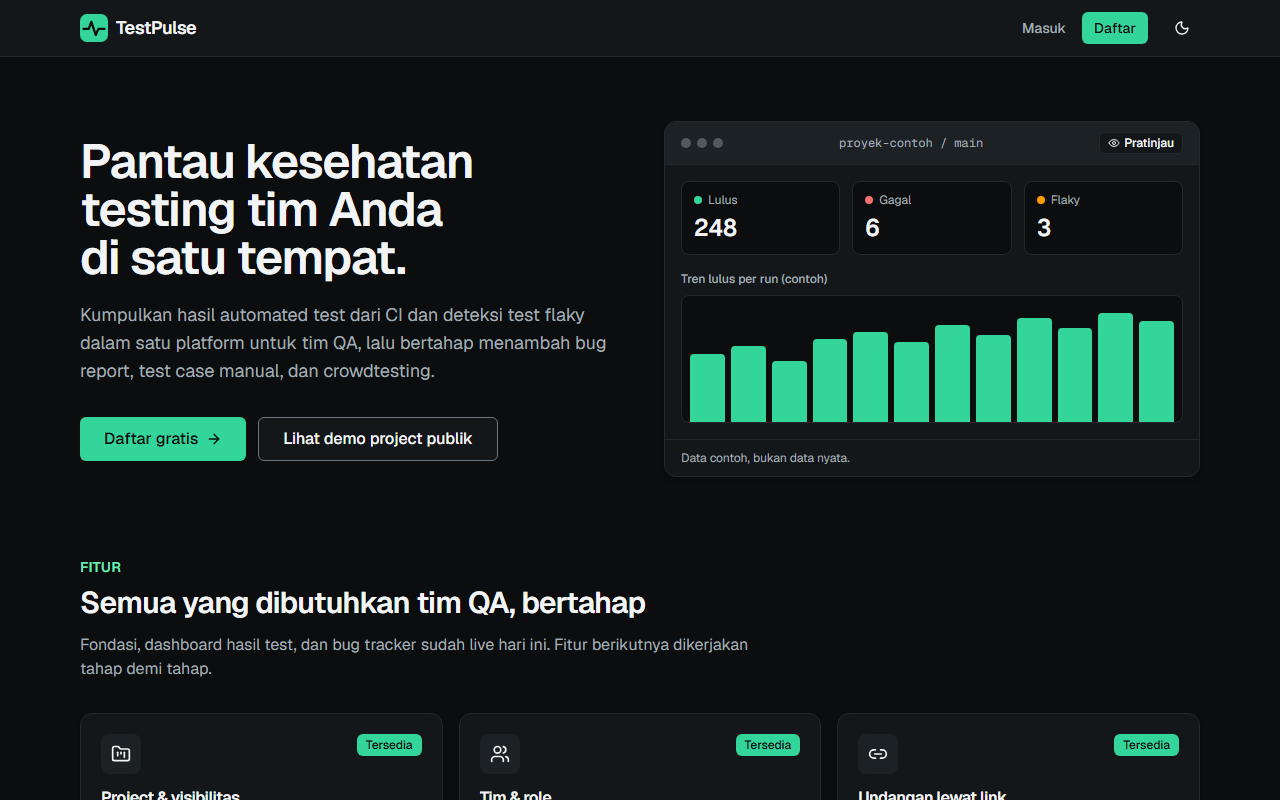
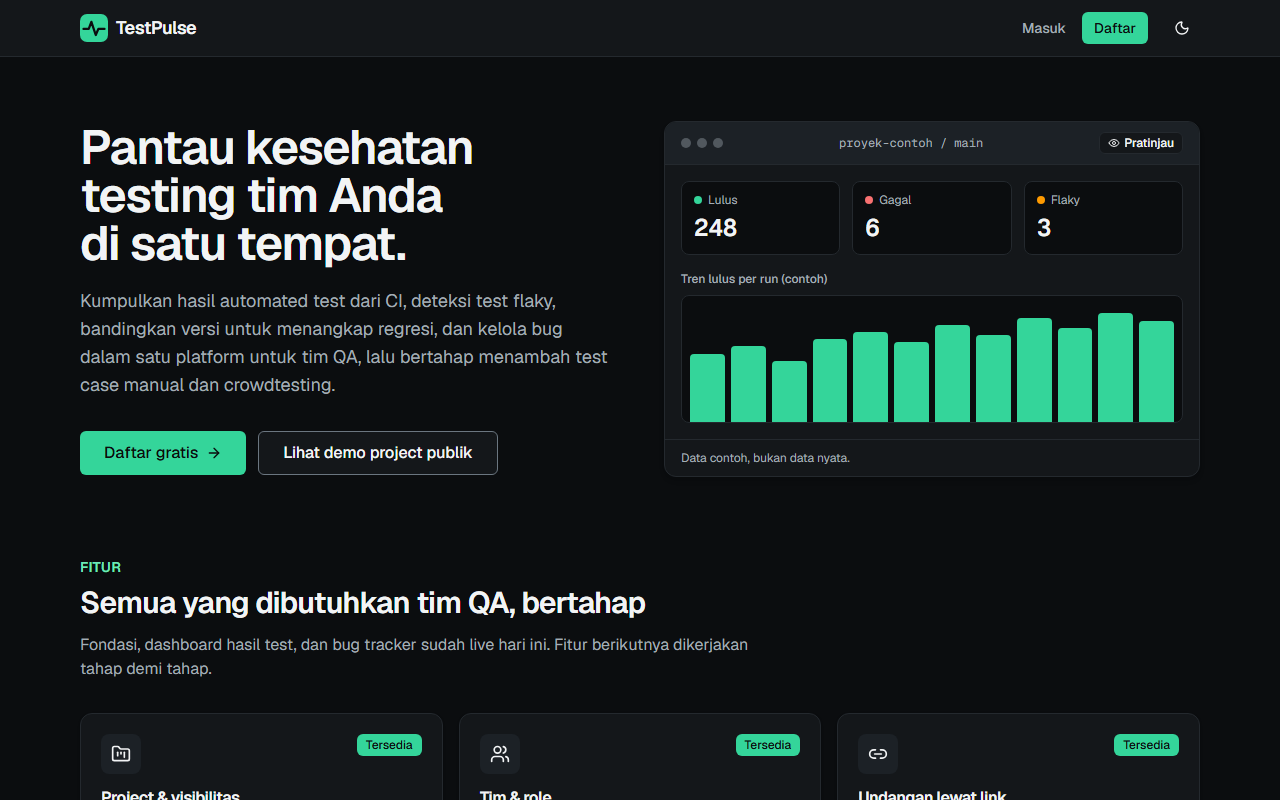
docs: refresh landing hero and Tahap 3 documentation details

Changed region(s): [[0.0625, 0.1562, 0.4688, 0.5938]]

diff --git a/apps/web/src/pages/landing/Hero.tsx b/apps/web/src/pages/landing/Hero.tsx
@@ -92,8 +92,8 @@ export function Hero() {
           Pantau kesehatan testing tim Anda di satu tempat.
         </h1>
         <p className="mt-5 max-w-xl text-lg text-muted-foreground">
-          Kumpulkan hasil automated test dari CI dan deteksi test flaky dalam satu platform untuk tim QA, lalu
-          bertahap menambah bug report, test case manual, dan crowdtesting.
+          Kumpulkan hasil automated test dari CI, deteksi test flaky, bandingkan versi untuk menangkap regresi, dan
+          kelola bug dalam satu platform untuk tim QA, lalu bertahap menambah test case manual dan crowdtesting.
         </p>
         <div className="mt-8 flex flex-col gap-3 sm:flex-row">
           <Button asChild size="lg">

diff --git a/README.md b/README.md
@@ -61,7 +61,7 @@ curl -X POST "https://testpulse-d2p.pages.dev/api/v1/projects/<slug>/runs" \
 # 201 {"runId":"...","url":"https://.../p/<slug>/runs/<runId>","totals":{"total":..,"passed":..,"failed":..,"skipped":..,"flaky":..}}
 ```
 
-`branch` wajib (1 sampai 200 karakter `A-Za-z0-9._/-`); `commit` (hex 7 sampai 40), `ciUrl` (http/https), `name`, dan `version` (versi aplikasi yang diuji, 1 sampai 50 karakter `A-Za-z0-9._+-`; Tahap 3) opsional. Nilai query harus di-URL-encode (`ciUrl` sendiri memuat `:`, `/`, dan sering `?`/`&`; `name` bisa berspasi): `--url-query` (curl 7.87 ke atas) melakukannya otomatis; pada curl yang lebih lama, encode sendiri, mis. `ciUrl=https%3A%2F%2Fci.example.com%2Frun%2F42`. Batas: body 5 MB, 20.000 testcase per laporan, 60 unggahan per jam per token, dan 200 run terbaru per project disimpan. Hanya token Bearer yang diterima di endpoint ini (cookie sesi tidak), dan laporan dengan `<!DOCTYPE` ditolak.
+`branch` wajib (1 sampai 200 karakter `A-Za-z0-9._/-`); `commit` (hex 7 sampai 40), `ciUrl` (http/https), `name`, dan `version` (versi aplikasi yang diuji, 1 sampai 50 karakter `A-Za-z0-9._+-`; Tahap 3) opsional. Nilai query harus di-URL-encode (`ciUrl` sendiri memuat `:`, `/`, dan sering `?`/`&`; `name` bisa berspasi; `+` pada `version`, mis. `1.0.0+build.5`, menjadi `%2B`, kalau tidak server membacanya sebagai spasi dan menolaknya): `--url-query` (curl 7.87 ke atas) melakukannya otomatis; pada curl yang lebih lama, encode sendiri, mis. `ciUrl=https%3A%2F%2Fci.example.com%2Frun%2F42`. Batas: body 5 MB, 20.000 testcase per laporan, 60 unggahan per jam per token, dan 200 run terbaru per project disimpan. Hanya token Bearer yang diterima di endpoint ini (cookie sesi tidak), dan laporan dengan `<!DOCTYPE` ditolak.
 
 ### Mengunggah dengan reporter CLI
 
@@ -125,7 +125,7 @@ Di PowerShell: `$env:TESTPULSE_TOKEN = Read-Host "Token CI"`, lalu jalankan `nod
 |---|---|---|
 | **1** | Fondasi: akun, project, tim dan role, undangan, seluruh pipeline QA | ✅ Selesai dan live (status CI: lihat badge di atas) |
 | **2** | Dashboard hasil test, deteksi flaky, reporter CLI, token CI, dogfooding, test performa (k6) | ✅ Selesai dan live (dashboard production terisi setelah `TESTPULSE_TOKEN` dipasang) |
-| **3** | Bug tracker (bug dari test yang gagal), deteksi regresi antar versi, visual regression, k6 untuk bug dan perbandingan | ✅ Selesai dan live (`/p/testpulse` menampilkan run berversi `0.3.0`) |
+| **3** | Bug tracker (bug dari test yang gagal), deteksi regresi antar versi, visual regression, k6 untuk bug dan perbandingan | ✅ Selesai; setelah deploy, `/p/testpulse` menampilkan run berversi `0.3.0` |
 | 4 | Test case management dan test run manual, mutation testing | Direncanakan |
 | 5 | Crowdtesting: test cycle publik, crowd tester mengirim bug, triase, reputasi dan leaderboard (aplikasi berupa link, tanpa pembayaran) | Direncanakan |
 | 6 (opsional) | Aplikasi desktop Electron (notifikasi build gagal, tray) yang diuji dengan Playwright | Opsional |

diff --git a/docs/test-plans/tahap-3.md b/docs/test-plans/tahap-3.md
@@ -146,7 +146,7 @@ Semua halaman di bawah lolos `expectNoA11yViolationsInBothThemes` (0 pelanggaran
 |---|---|---|---|---|
 | VIS-01 | Landing, dashboard, perbandingan, daftar bug, detail bug; tema terang dan gelap; 1280 x 800 dan 375 x 812; daftar dan detail bug juga sebagai tester | 76 screenshot (halaman penuh dan elemen kunci) cocok dengan baseline dengan toleransi ketat (50 piksel halaman, 10 piksel elemen) | V | [pages.spec.ts](../../tests/visual/pages.spec.ts), [seed.ts](../../tests/visual/seed.ts), [timestamps.ts](../../tests/visual/timestamps.ts) |
 | VIS-02 | Render deterministik dan sebanding antar mesin | Container Playwright resmi yang sepaket dengan versi terpasang; jam dibekukan, waktu di respons API ditulis ulang, animasi dimatikan, font dimuat; gate benar-benar bisa gagal (mengubah satu warna utama menggagalkan 14 screenshot) | V | [visual.sh](../../scripts/visual.sh), [visual-baselines.yml](../../.github/workflows/visual-baselines.yml) |
-| PRF-03 | `read`: 10 VU x 30 detik membaca `stats`, `runs`, `flaky`, `bugs`, `compare`, `compare?groups=none`, `versions` pada project berisi 55 run berversi dan 120 bug | p95 durasi < 300 ms; `http_req_failed` < 1%; `checks` > 0,99 (respons diperiksa isinya: 25 bug dan cursor, pembanding terisi, minimal 50 versi); `http_reqs` > 0 (gagal tertutup) | P | [read.js](../../tests/perf/read.js), [setup.mjs](../../tests/perf/setup.mjs) |
+| PRF-03 | `read`: 10 VU x 30 detik membaca `stats`, `runs`, `flaky`, `bugs`, `compare`, `compare?groups=none`, `versions` pada project berisi 55 run berversi dan 120 bug | p95 durasi < 300 ms; `http_req_failed` < 1%; `checks` > 0,99 (respons diperiksa isinya: halaman penuh 25 bug dengan cursor, pembanding terisi, minimal 50 versi); `http_reqs` > 0 (gagal tertutup) | P | [read.js](../../tests/perf/read.js), [setup.mjs](../../tests/perf/setup.mjs) |
 
 ### 4.9 Keamanan tambahan
 

diff --git a/docs/adr/0005-perbandingan-versi-dan-markdown-aman.md b/docs/adr/0005-perbandingan-versi-dan-markdown-aman.md
@@ -55,7 +55,7 @@ Aturan satu: membandingkan `1.0.1` dengan `1.0.0` (bukan dengan run `1.0.1` sebe
 
 ### 4. Mode ringkasan (`GET /compare?groups=none`)
 
-Dashboard dan panel detail run hanya perlu angka dan kalimat, bukan baris per test. `groups=none` menjawab dengan bentuk respons yang sama (`base`, `target`, `summary`) dan **semua kelompok kosong**, dan melewati query pesan galat serta badge bug. Tidak dapat digabung dengan `group` (400). Halaman perbandingan tetap memakai mode penuh: 200 item pertama per kelompok, lalu 100 per halaman dengan cursor yang terikat pada pasangan run (cursor basi setelah upload baru: 400, UI menawarkan muat ulang). Biayanya satu mode tambahan di API dan kontrak; manfaatnya kartu dashboard tetap murah walau perbandingan besar, dan itu dijaga gate k6 (skenario `read` memanggil keduanya).
+Dashboard dan panel detail run hanya perlu angka dan kalimat, bukan baris per test. `groups=none` menjawab dengan bentuk respons yang sama (`base`, `target`, `summary`) dan **semua kelompok kosong**, dan melewati query pesan galat serta badge bug (hemat query dan ukuran respons). Yang tidak dihemat: kedua run tetap dimuat hasilnya untuk menghitung angka ringkasan, jadi biaya utamanya tetap ada. Tidak dapat digabung dengan `group` (400). Halaman perbandingan tetap memakai mode penuh: 200 item pertama per kelompok, lalu 100 per halaman dengan cursor yang terikat pada pasangan run (cursor basi setelah upload baru: 400, UI menawarkan muat ulang). Biayanya satu mode tambahan di API dan kontrak; manfaatnya kartu dashboard tidak membayar query pesan dan badge serta payload ribuan baris, dan latensinya dijaga gate k6 (skenario `read` memanggil keduanya).
 
 ### 5. Kalimat kesimpulan (disusun di klien, fungsi murni)
 

diff --git a/docs/TEST_STRATEGY.md b/docs/TEST_STRATEGY.md
@@ -189,7 +189,7 @@ Angka ini adalah **snapshot**: hasil menjalankan suite secara lokal pada commit 
 
 ### 5.1 Performa (k6)
 
-Job CI `perf` (setelah `stack-tests`) menjalankan dua skenario k6 terhadap stack Docker Compose, bukan production. Image dipin (`grafana/k6:1.3.0`) agar versi baru tidak mengubah gate diam-diam. Data disiapkan oleh [`tests/perf/setup.mjs`](../tests/perf/setup.mjs) lewat API: satu pengguna, satu project publik berisi 55 run (500 test per run) untuk skenario baca, dan (Tahap 3) 55 run berversi `0.1.0` sampai `0.55.0` dengan 120 bug di project baca (25 tertaut ke test gagal run terakhir, 20 diselesaikan), serta satu project untuk skenario upload dengan beberapa token yang dipakai bergiliran per VU, sehingga batas upload per token tidak tercapai dan tidak ada 429.
+Job CI `perf` (setelah `stack-tests`) menjalankan dua skenario k6 terhadap stack Docker Compose, bukan production. Image dipin (`grafana/k6:1.3.0`) agar versi baru tidak mengubah gate diam-diam. Data disiapkan oleh [`tests/perf/setup.mjs`](../tests/perf/setup.mjs) lewat API: satu pengguna, satu project publik berisi 55 run (500 test per run) untuk skenario baca, dan (Tahap 3) 55 run berversi `0.1.0` sampai `0.55.0` dengan 120 bug di project baca (satu bug per test gagal di run terakhir, jumlah persisnya dicetak `setup.mjs`; 20 bug lainnya diselesaikan), serta satu project untuk skenario upload dengan beberapa token yang dipakai bergiliran per VU, sehingga batas upload per token tidak tercapai dan tidak ada 429.
 
 | Skenario | Beban | Threshold (gate) |
 |---|---|---|
